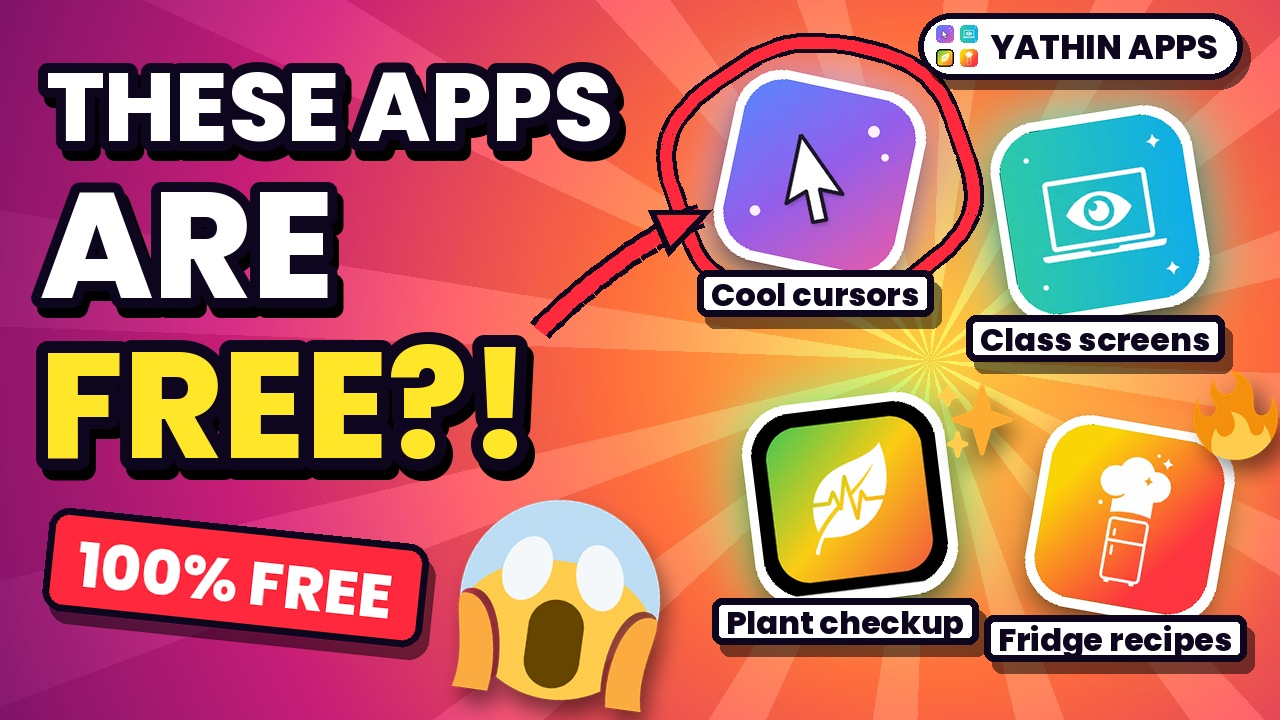
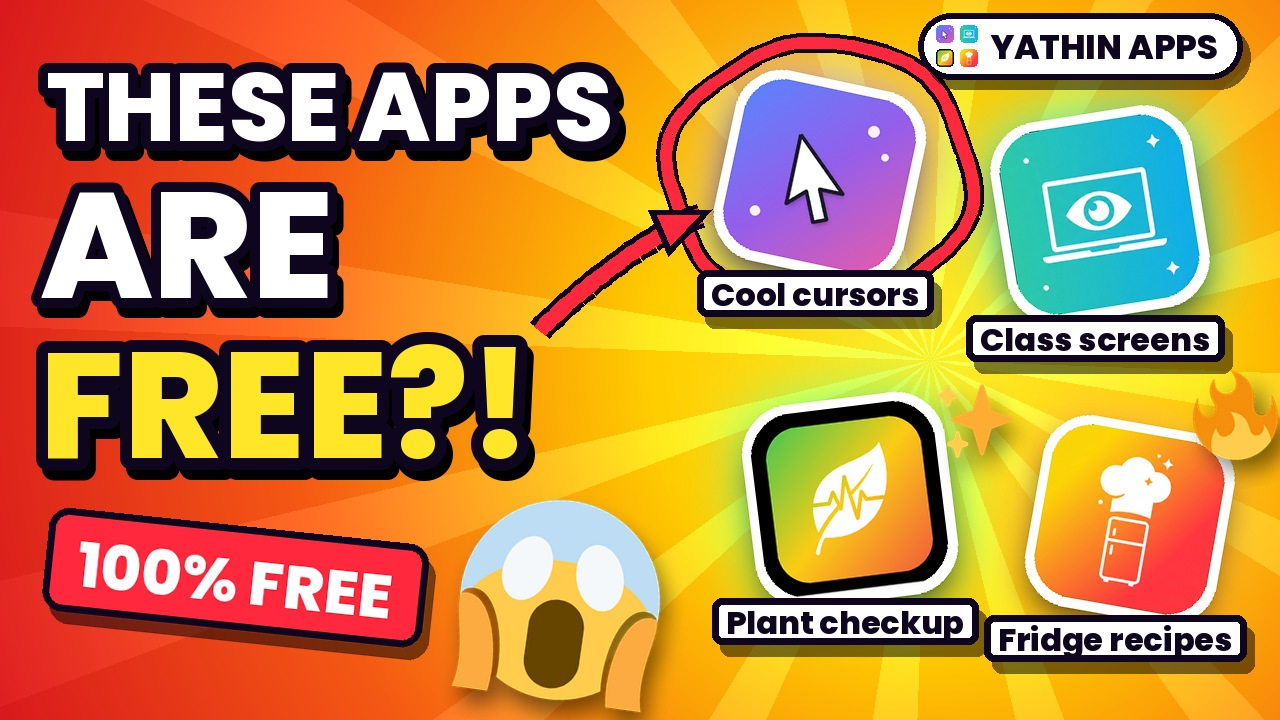
Thumbnails: bright yellow center, red edges

diff --git a/videos/thumbnails/make_yathin_thumbnail.py b/videos/thumbnails/make_yathin_thumbnail.py
@@ -9,7 +9,7 @@ def rr(im,r):
     m=Image.new('L',im.size,0); ImageDraw.Draw(m).rounded_rectangle([0,0,im.size[0]-1,im.size[1]-1],r,fill=255); im=im.convert('RGBA'); im.putalpha(m); return im
 def bgimg(W,H,cx,cy):
     y,x=np.mgrid[0:H,0:W]; dx=(x-cx)/W; dy=(y-cy)/W; r=np.sqrt(dx*dx+dy*dy)
-    stops=[(0,(255,210,60)),(.25,(255,110,60)),(.55,(200,30,120)),(1,(60,10,90))]
+    stops=[(0,(255,240,40)),(.22,(255,205,0)),(.5,(245,90,20)),(.8,(215,20,30)),(1,(170,0,20))]
     out=np.zeros((H,W,3))
     for c in range(3): out[...,c]=np.interp(r,[s[0] for s in stops],[s[1][c] for s in stops])
     ang=np.arctan2(dy,dx); rays=(np.sin(ang*16)>0.55)*np.clip(1-r*1.1,0,1)*40
